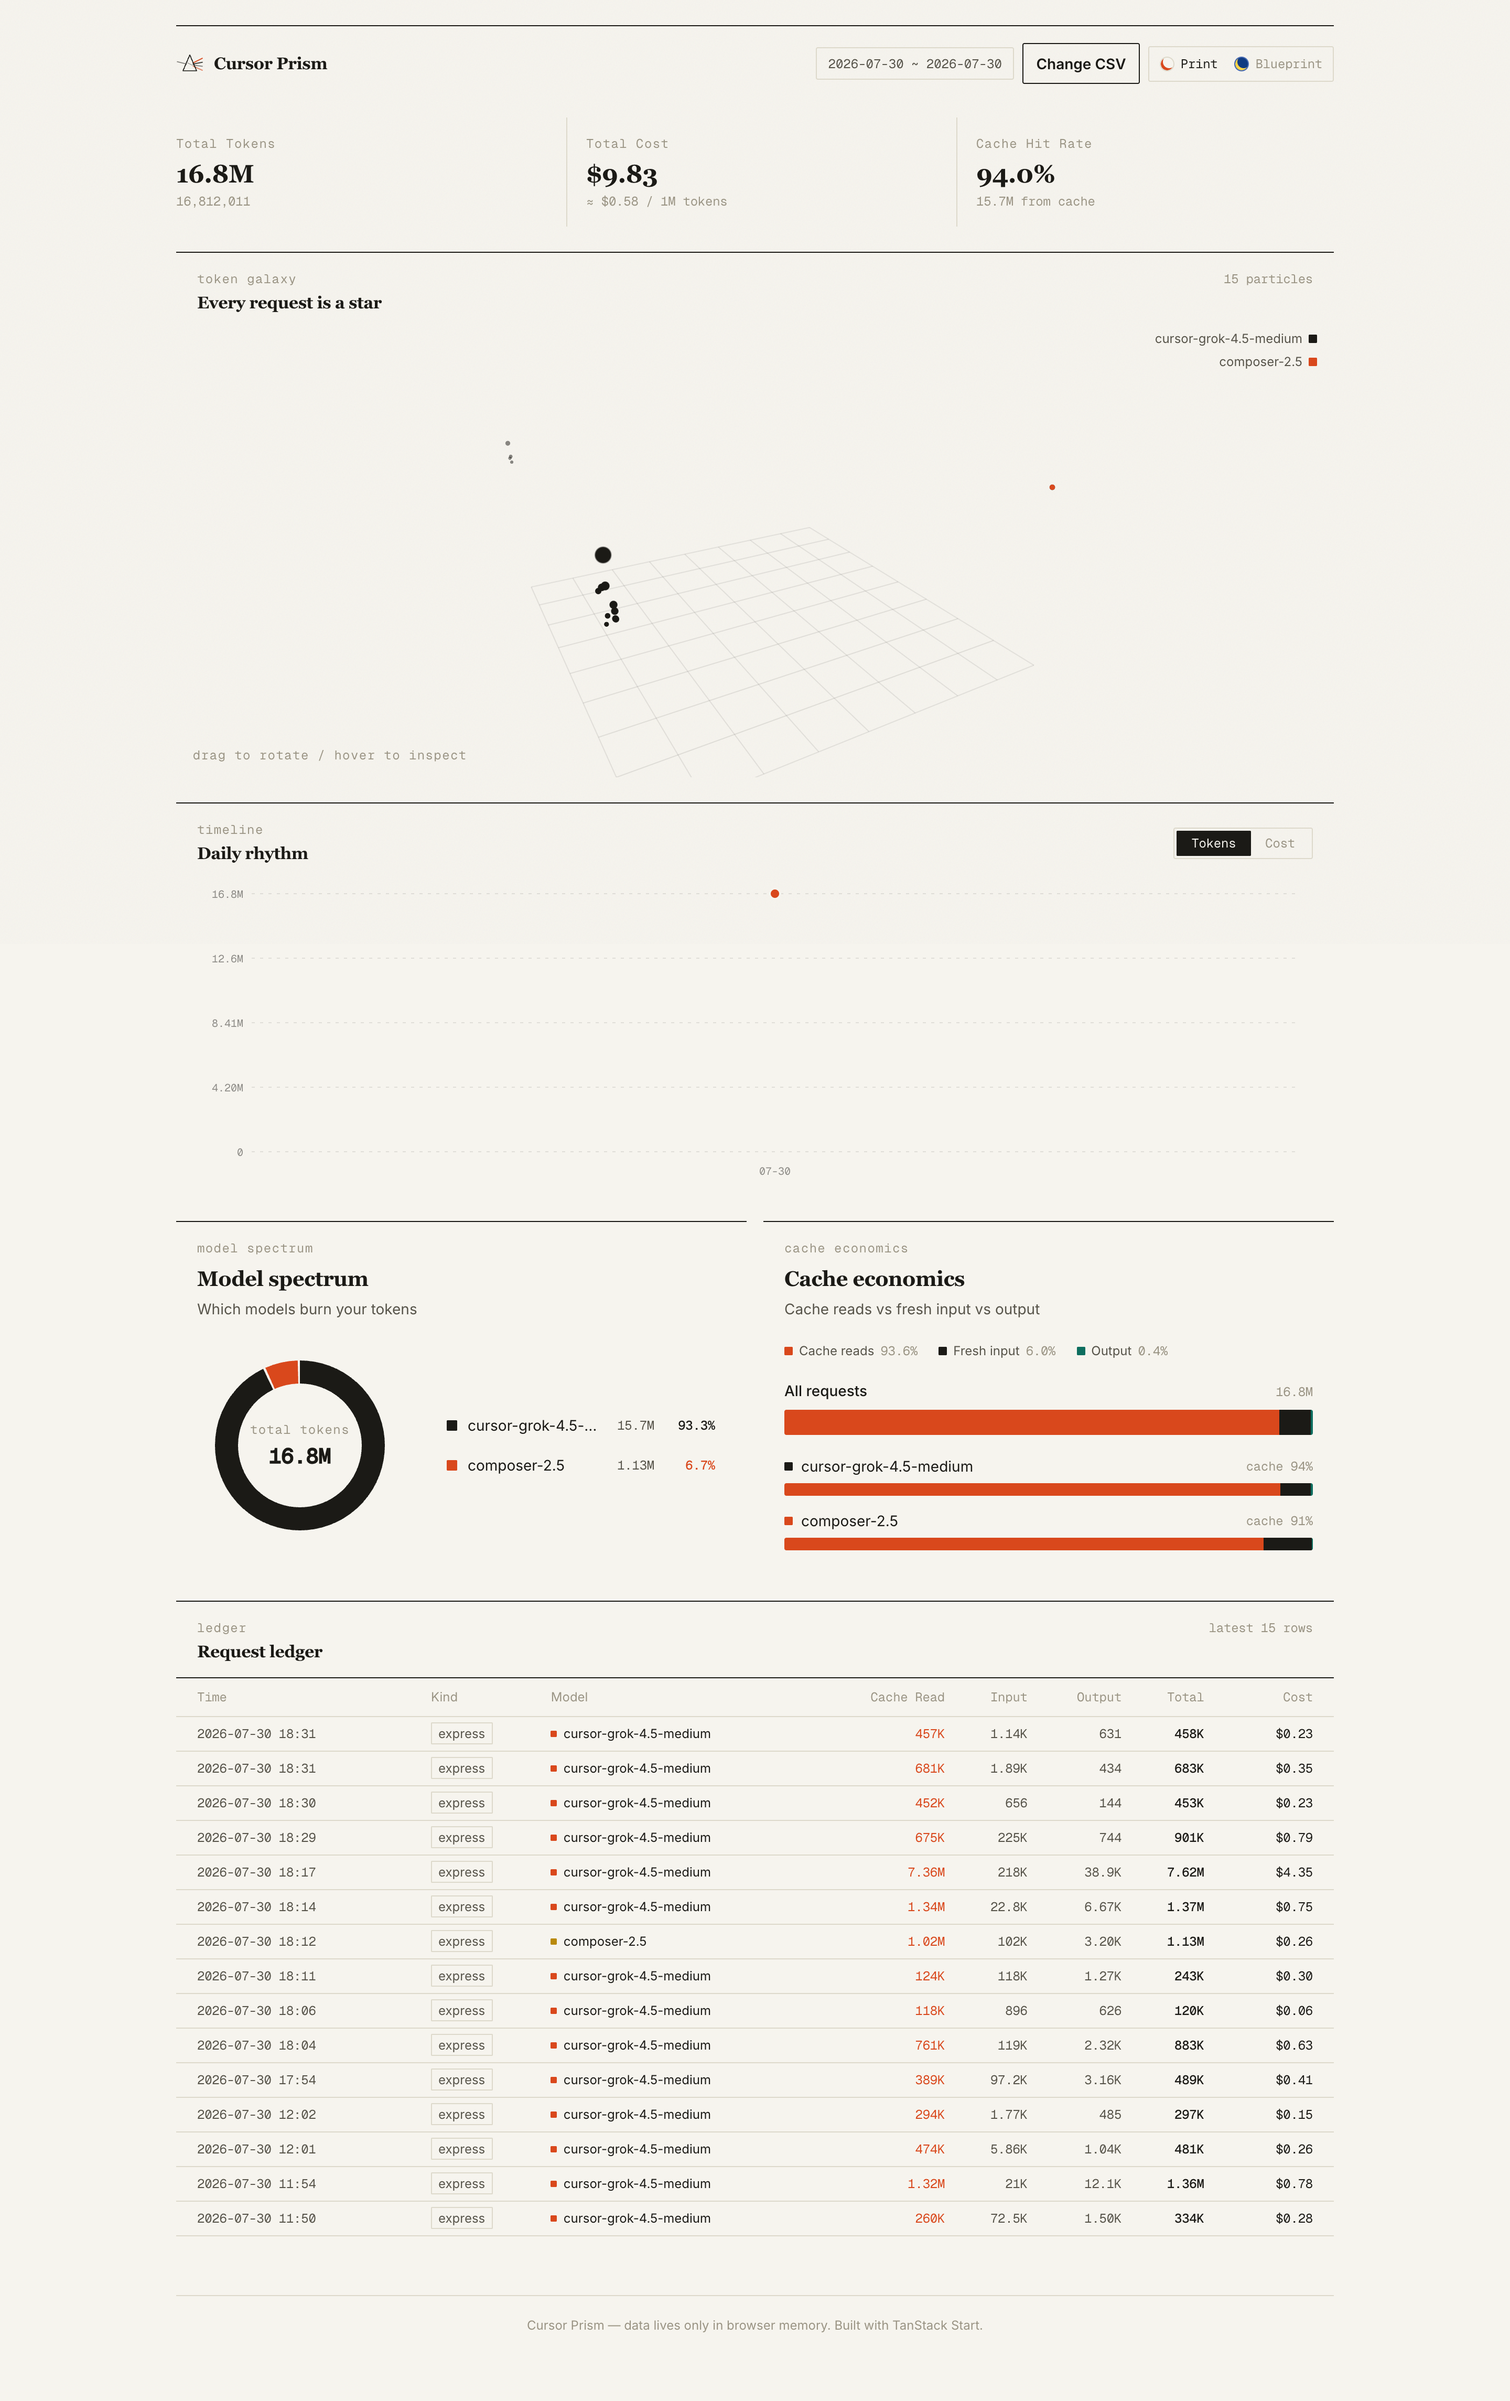
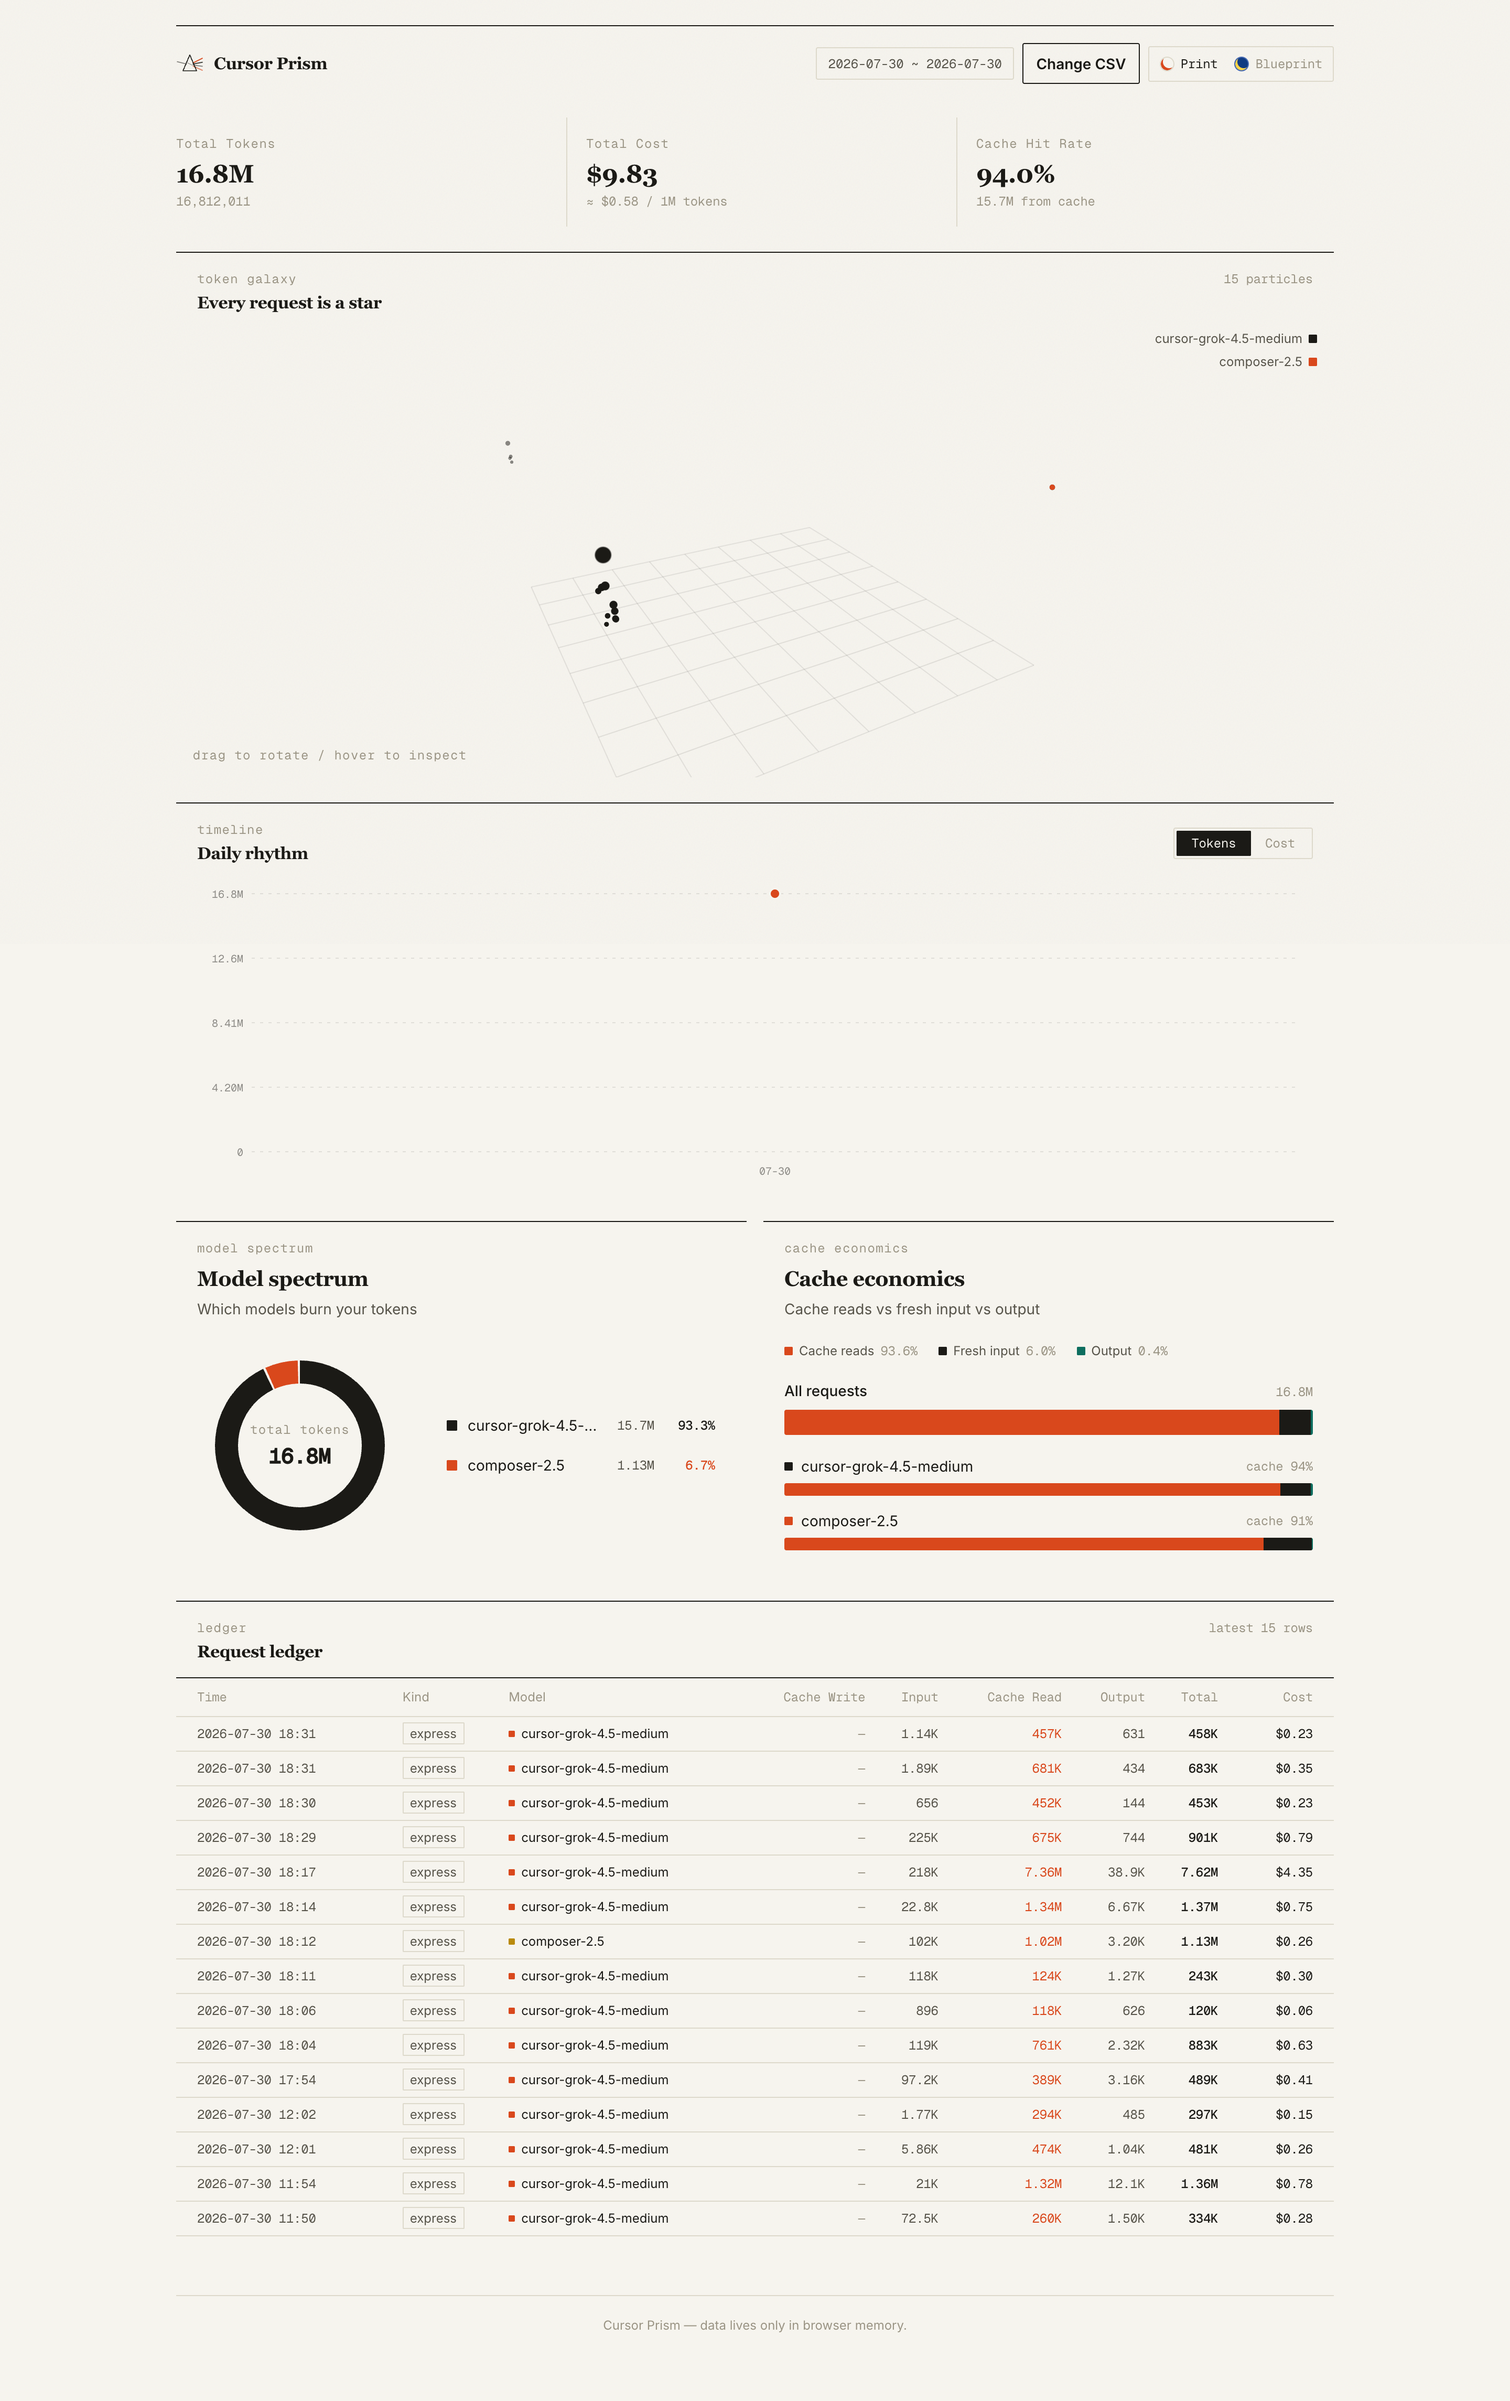
feat(ledger): reorder token columns and add cache write
Follow the CSV's own column order — cache write, input, cache read,
output — so the four columns sum to the row total. Input now shows
only the w/o-cache-write part instead of a merged figure. Zero
values render as a quiet dash.

diff --git a/src/routes/dashboard.tsx b/src/routes/dashboard.tsx
@@ -264,9 +264,12 @@ function Dashboard() {
 
 function DetailTable({ rows }: { rows: UsageRow[] }) {
 	const tokens = useChartTokens();
+	/** Zero renders as a quiet dash, so an unused cache-write column stays calm */
+	const tok = (n: number) =>
+		n > 0 ? formatTokens(n) : <span style={{ color: "var(--ink-3)" }}>—</span>;
 	return (
 		<div className="overflow-x-auto">
-			<table className="w-full min-w-[760px] text-left text-xs">
+			<table className="w-full min-w-[880px] text-left text-xs">
 				<thead>
 					<tr
 						className="rule-t-strong"
@@ -279,9 +282,12 @@ function DetailTable({ rows }: { rows: UsageRow[] }) {
 						<th className="px-2 py-2.5 font-normal">Kind</th>
 						<th className="px-2 py-2.5 font-normal">Model</th>
 						<th className="num px-2 py-2.5 text-right font-normal">
-							Cache Read
+							Cache Write
 						</th>
 						<th className="num px-2 py-2.5 text-right font-normal">Input</th>
+						<th className="num px-2 py-2.5 text-right font-normal">
+							Cache Read
+						</th>
 						<th className="num px-2 py-2.5 text-right font-normal">Output</th>
 						<th className="num px-2 py-2.5 text-right font-normal">Total</th>
 						<th className="num px-5 py-2.5 text-right font-normal">Cost</th>
@@ -341,21 +347,27 @@ function DetailTable({ rows }: { rows: UsageRow[] }) {
 							</td>
 							<td
 								className="num px-2 py-2 text-right"
+								style={{ color: "var(--ink-2)" }}
+							>
+								{tok(r.inputWithCacheWrite)}
+							</td>
+							<td
+								className="num px-2 py-2 text-right"
+								style={{ color: "var(--ink-2)" }}
+							>
+								{tok(r.inputWithoutCacheWrite)}
+							</td>
+							<td
+								className="num px-2 py-2 text-right"
 								style={{ color: "var(--accent)" }}
 							>
-								{formatTokens(r.cacheRead)}
+								{tok(r.cacheRead)}
 							</td>
 							<td
 								className="num px-2 py-2 text-right"
 								style={{ color: "var(--ink-2)" }}
 							>
-								{formatTokens(r.inputWithCacheWrite + r.inputWithoutCacheWrite)}
-							</td>
-							<td
-								className="num px-2 py-2 text-right"
-								style={{ color: "var(--ink-2)" }}
-							>
-								{formatTokens(r.outputTokens)}
+								{tok(r.outputTokens)}
 							</td>
 							<td
 								className="num px-2 py-2 text-right font-medium"
